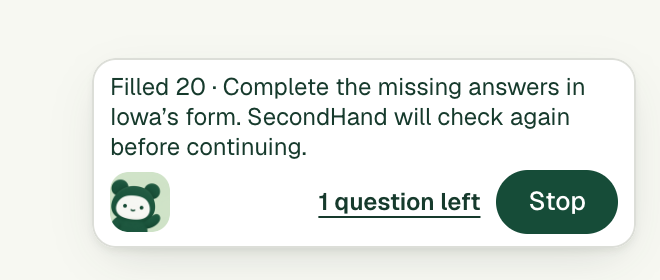
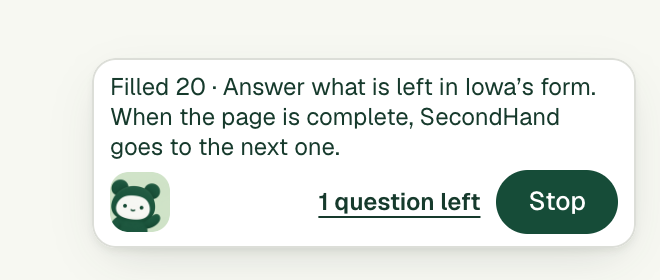
fix: say that SecondHand goes on once the page is complete
On Enter Personal Information, the line under "Filled 20" was "Complete
the missing answers in Iowa's form. SecondHand will check again before
continuing." It now says what to do and what happens next: "Answer what
is left in Iowa's form. When the page is complete, SecondHand goes to the
next one." Same change in all six languages.

Changed region(s): [[0.1515, 0.3714, 0.8788, 0.4571], [0.3333, 0.2571, 0.9091, 0.3714], [0.1515, 0.4857, 0.5152, 0.5714]]

diff --git a/extension/strings.js b/extension/strings.js
@@ -300,7 +300,7 @@
     'iowa.startDetailsReason': 'SecondHand can fill the answers you saved in My information on this page. Answer the other questions yourself, then click Save and Continue in Iowa’s form.',
     'iowa.clickContinue': 'Click Continue in Iowa’s form.',
     'iowa.programIntentReason': 'Answer whether anyone is applying, then solve the CAPTCHA.',
-    'iowa.missingAnswers': 'Complete the missing answers in Iowa’s form. SecondHand will check again before continuing.',
+    'iowa.missingAnswers': 'Answer what is left in Iowa’s form. When the page is complete, SecondHand goes to the next one.',
     'iowa.canSaveContinue': 'SecondHand can save this page and continue. Review every answer before final submission.',
     'iowa.remainingQuestions': 'Answer the remaining questions and correct any errors in Iowa’s form.',
     'iowa.requiredFields': 'Complete the required applicant fields in Iowa’s form.',
@@ -618,7 +618,7 @@
     'iowa.startDetailsReason': 'SecondHand puede llenar en esta página las respuestas que guardó en “My information”. Conteste usted mismo las demás preguntas y luego haga clic en “Save and Continue” en el formulario de Iowa.',
     'iowa.clickContinue': 'Haga clic en “Continue” en el formulario de Iowa.',
     'iowa.programIntentReason': 'Responda si alguien está solicitando y luego resuelva el CAPTCHA.',
-    'iowa.missingAnswers': 'Complete las respuestas que faltan en el formulario de Iowa. SecondHand volverá a revisar antes de continuar.',
+    'iowa.missingAnswers': 'Conteste lo que falta en el formulario de Iowa. Cuando la página esté completa, SecondHand pasará a la siguiente.',
     'iowa.canSaveContinue': 'SecondHand puede guardar esta página y continuar. Revise cada respuesta antes del envío final.',
     'iowa.remainingQuestions': 'Conteste las preguntas restantes y corrija los errores en el formulario de Iowa.',
     'iowa.requiredFields': 'Complete los campos obligatorios del solicitante en el formulario de Iowa.',
@@ -935,7 +935,7 @@
     'iowa.startDetailsReason': 'SecondHand có thể điền trên trang này các câu trả lời bạn đã lưu trong “My information”. Hãy tự trả lời các câu hỏi khác, rồi bấm “Save and Continue” trong biểu mẫu của Iowa.',
     'iowa.clickContinue': 'Hãy bấm “Continue” trong biểu mẫu của Iowa.',
     'iowa.programIntentReason': 'Hãy trả lời có ai đang xin hay không, rồi giải CAPTCHA.',
-    'iowa.missingAnswers': 'Hãy hoàn tất các câu trả lời còn thiếu trong biểu mẫu của Iowa. SecondHand sẽ kiểm tra lại trước khi tiếp tục.',
+    'iowa.missingAnswers': 'Hãy trả lời những câu còn lại trong biểu mẫu của Iowa. Khi trang đã đủ, SecondHand sẽ chuyển sang trang kế tiếp.',
     'iowa.canSaveContinue': 'SecondHand có thể lưu trang này và tiếp tục. Hãy xem lại từng câu trả lời trước khi nộp lần cuối.',
     'iowa.remainingQuestions': 'Hãy trả lời các câu hỏi còn lại và sửa mọi lỗi trong biểu mẫu của Iowa.',
     'iowa.requiredFields': 'Hãy hoàn tất các ô bắt buộc của người nộp đơn trong biểu mẫu của Iowa.',
@@ -1253,7 +1253,7 @@
     'iowa.startDetailsReason': 'SecondHand 可以在这个页面上填写您在“My information”中保存的答案。请自己回答其他问题，然后在爱荷华州的表格中点击 “Save and Continue”。',
     'iowa.clickContinue': '请在爱荷华州的表格中点击 “Continue”。',
     'iowa.programIntentReason': '请回答是否有人要申请，然后完成验证码（CAPTCHA）。',
-    'iowa.missingAnswers': '请在爱荷华州的表格中补全缺少的答案。继续之前 SecondHand 会再检查一次。',
+    'iowa.missingAnswers': '请在爱荷华州的表格中回答剩下的问题。页面填完后，SecondHand 会进入下一页。',
     'iowa.canSaveContinue': 'SecondHand 可以保存这个页面并继续。最终提交前请核对每个答案。',
     'iowa.remainingQuestions': '请回答其余问题，并更正爱荷华州表格中的所有错误。',
     'iowa.requiredFields': '请在爱荷华州的表格中填写申请人的必填栏位。',
@@ -1571,7 +1571,7 @@
     'iowa.startDetailsReason': 'SecondHand peut remplir sur cette page les réponses que vous avez enregistrées dans « My information ». Répondez vous-même aux autres questions, puis cliquez sur « Save and Continue » dans le formulaire de l’Iowa.',
     'iowa.clickContinue': 'Cliquez sur « Continue » dans le formulaire de l’Iowa.',
     'iowa.programIntentReason': 'Répondez si quelqu’un fait une demande, puis résolvez le CAPTCHA.',
-    'iowa.missingAnswers': 'Complétez les réponses manquantes dans le formulaire de l’Iowa. SecondHand vérifiera de nouveau avant de continuer.',
+    'iowa.missingAnswers': 'Répondez à ce qui reste dans le formulaire de l’Iowa. Quand la page est complète, SecondHand passe à la suivante.',
     'iowa.canSaveContinue': 'SecondHand peut enregistrer cette page et continuer. Vérifiez chaque réponse avant l’envoi final.',
     'iowa.remainingQuestions': 'Répondez aux questions restantes et corrigez les erreurs dans le formulaire de l’Iowa.',
     'iowa.requiredFields': 'Remplissez les champs obligatoires du demandeur dans le formulaire de l’Iowa.',
@@ -1889,7 +1889,7 @@
     'iowa.startDetailsReason': 'يمكن لـ SecondHand أن يملأ في هذه الصفحة الإجابات التي حفظتها في “My information”. أجب بنفسك عن الأسئلة الأخرى، ثم انقر على “Save and Continue” في نموذج أيوا.',
     'iowa.clickContinue': 'انقر على “Continue” في نموذج أيوا.',
     'iowa.programIntentReason': 'أجب هل يتقدم أحد بطلب، ثم حُلّ اختبار CAPTCHA.',
-    'iowa.missingAnswers': 'أكمل الإجابات الناقصة في نموذج أيوا. سيتحقق SecondHand مرة أخرى قبل المتابعة.',
+    'iowa.missingAnswers': 'أجب عما تبقّى في نموذج أيوا. عند اكتمال الصفحة ينتقل SecondHand إلى الصفحة التالية.',
     'iowa.canSaveContinue': 'يمكن لـ SecondHand حفظ هذه الصفحة والمتابعة. راجع كل إجابة قبل الإرسال النهائي.',
     'iowa.remainingQuestions': 'أجب عن الأسئلة المتبقية وصحّح أي أخطاء في نموذج أيوا.',
     'iowa.requiredFields': 'أكمل الحقول المطلوبة لمقدم الطلب في نموذج أيوا.',

diff --git a/extension/iowa-adapter.js b/extension/iowa-adapter.js
@@ -892,7 +892,7 @@
       const next = navigationButton(doc, rawUrl);
       return { ...result, ...issues, kind: 'fillable', pageKey: 'iowa-personal-information', heading: 'Enter Personal Information', fields: scanResult.fields,
         canAdvance: Boolean(next && issues.requiredRemaining === 0 && issues.manualRemaining === 0 && scanResult.ambiguous.length === 0),
-        todo: issues.requiredRemaining || issues.manualRemaining ? 'Complete the missing answers in Iowa’s form. SecondHand will check again before continuing.' : 'SecondHand can save this page and continue. Review every answer before final submission.',
+        todo: issues.requiredRemaining || issues.manualRemaining ? 'Answer what is left in Iowa’s form. When the page is complete, SecondHand goes to the next one.' : 'SecondHand can save this page and continue. Review every answer before final submission.',
         reason: issues.manualRemaining ? 'Answer the remaining questions and correct any errors in Iowa’s form.' : issues.requiredRemaining ? 'Complete the required applicant fields in Iowa’s form.' : 'Review your answers, then click Save and Continue in Iowa’s form.' };
     }
     if (rawUrl === `${PORTAL}/applyForBenefits/enterPersonalInfo` || headings.includes('enter personal information')) return { ...result, pageKey: 'iowa-personal-unverified', todo: 'Fill in this page yourself, then click Save and Continue in Iowa’s form.', reason: 'This page doesn’t look like the applicant page SecondHand knows, so it fills nothing here.' };
